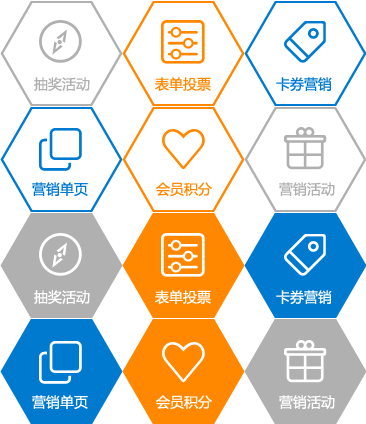
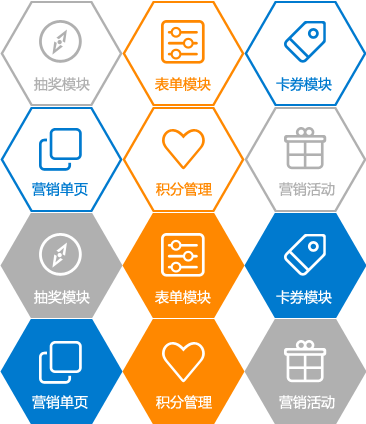
update danlunet

diff --git a/src/documents/index.html b/src/documents/index.html
@@ -12,21 +12,21 @@ scripts: ["/scripts/jq-plug.js","/scripts/index.js"]
         <ul>
         <li>
             <div class=""><img src="../images/cdn.png" /></div>
-            <h3>pc网站展示</h3>
+            <h3>pc端展示</h3>
             <img src="../images/boxline.png" />
-            <div class="dec">根据用户需求打造最专业的营销型网站，后台操作便捷、海量模板、高度自定义、支持二次升级、轻松创建属于您自己的网站！</div>
+            <div class="dec">根据各行业的实际运作模式，打造几千套PC端创意样式，后台操作便捷、高度自定义、支持二次升级、轻松创建属于属于企业自己的营销平台！</div>
         </li>
         <li>
             <div class=""><img src="../images/csj.png" /></div>
-            <h3>手机网站展示</h3>
+            <h3>手机端展示</h3>
             <img src="../images/boxline.png" />
-            <div class="dec">独立域名，拒绝捆绑，手机访问PC网站自动跳转；数据同步PC网站，统一后台管理；无缝对接微信，手机页面可配置，自主制作精美页面。</div>
+            <div class="dec">独立域名，手机访问PC端可设置自动跳转；数据同步PC端，统一后台管理；无缝对接微信/支付宝服务窗等开放接口；手机端页面可自定义配置。</div>
         </li>
         <li>
             <div class=""><img src="../images/cwx.png" /></div>
-            <h3>微官网展示</h3>
+            <h3>微信端展示</h3>
             <img src="../images/boxline.png" />
-            <div class="dec">开放平台接口捆绑手机网站、结合微信的自动回复功能：设计微信互动游戏。使用手机网站的推广页面，报名活动、签到等营销活动迅速聚拢人气。</div>
+            <div class="dec">开放平台接口捆绑手机端，结合微信的自动回复功能，设计微信互动营销。使用手机端的推广页面/表单/抽奖/签到等功能迅速聚拢人气。</div>
         </li>
         </ul>
     </div>
@@ -46,41 +46,50 @@ scripts: ["/scripts/jq-plug.js","/scripts/index.js"]
             <div class="tab-content solu-content">
                 <div class="tab-pane2">
                     <h4 style="padding: 0px 0;text-align: center;font-size: 32px;font-weight:normal;color:#444;display:none;">营销模块</h4>
-                    <p class="text" style="line-height:24px;font-size:16px;">担路创建的云官网、云商城，采用统一后台管理、数据同步，轻松实现企业品牌及产品信息发布、咨询管理、订单管理、售后服务管理、会员管理等功能；基于云计算架构的后台系统，集合pc端、手机端、微信端为一体，颠覆传统的企业宣传模式，为企业提供专业的互联网工具。
+                    <p class="text" style="line-height:24px;font-size:16px;">基于担路SAAS云架构，我们在商城中心和手机端管理中心开发了多种互联网互动营销活动工具，方便企业进行O2O营销，让企业与客户的关系更加紧密。
                     <br><br></p>
                 </div>
                 <div class="tab-pane">
-                    <h4>抽奖活动</h4>
-                    <p class="text">刮刮卡、大转盘、砸金蛋等互动小游戏设置简单，趣味互动 吸引用户参与 沉淀用户。
+                    <h4>抽奖模块</h4>
+                    <p class="text">抽奖类型：刮刮卡/大转盘/砸金蛋<br>
+抽奖步骤：预先设置奖项，客户手机号验证后可抽奖<br>
+适用场景：企业开业/促销/等活动
                     <br><br></p>
                 </div>
                 <div class="tab-pane" style="display:none;">
-                    <h4>表单投票</h4>
-                    <p class="text">预定：酒店预订、课程预定、旅游预订等需要提前预定的场景<br />
-                                    报名：活动报名、课程报名、组团报名等报名活动<br />
-                                    预付款：装修预付款、课程预付款等需要预付款的场景
+                    <h4>表单模块</h4>
+                    <p class="text">表单字段自定义配置，表单风格自定义设置<br>
+预定：酒店预订、课程预定、旅游预订等需要提前预定的场景<br>
+报名：活动报名、课程报名、组团报名等报名活动<br>
+调查/反馈：问卷调查，产品问题反馈，客户建议提交等
+
                     <br><br></p>
                 </div>
                 <div class="tab-pane" style="display:none;">
-                    <h4>卡券营销</h4>
-                    <p class="text">代金券：结合线下活动，可以代替现金使用的券，为您的客户提供最直接的福利<br />优惠券：自定义优惠券，优惠券发放，积分兑换优惠券。
+                    <h4>卡券模块</h4>
+                    <p class="text">代金券：结合线下活动，可以代替现金使用的券，为您的客户提供最直接的福利<br>
+优惠券：自定义优惠券，优惠券发放，积分兑换优惠券<br>
+会员卡：会员管理，会员充值
                     <br><br></p>
                 </div>
                 <div class="tab-pane" style="display:none;">
-                    <h4>营销活动</h4>
-                    <p class="text">直降/打折/满减/秒杀/团购/<br />
-                                    推广单页：专为营销活动设计的个性化推广单页<br />
-                                    整合营销活动，轻松创建专题页面
+                    <h4>商城产品营销模块</h4>
+                    <p class="text">类型：直降/打折/满减/秒杀/团购/<br />
+特点：价格/时间/折扣金额/针对产品等全部自定义<br />
+适用场景：商城促销，尾货处理，品牌促销等
                     <br><br></p>
                 </div>
                 <div class="tab-pane" style="display:none;">
-                    <h4>会员积分</h4>
-                    <p class="text">购物积分/评价积分/预约积分/发放积分<br />积分兑换优惠券/积分抵扣购物/设置积分规则
+                    <h4>积分管理</h4>
+                    <p class="text">积分获得策略可以自定义<br />
+积分可以自定义发放给任何用户<br />
+积分可以用来抵扣现金，也可以用来兑换优惠券
                     <br><br></p>
                 </div>
                 <div class="tab-pane" style="display:none;">
                     <h4>营销单页</h4>
-                    <p class="text">为客户的需求提供合理地解决方案,为商家挖掘更多的客户需求，商家挖掘更多的客户需求多的客户需求多的客户需求。
+                    <p class="text">商城推广单页：可以整合商城各类营销活动以及组合推荐，单页风格可以自定义配置。用于商城的定期推广<br />
+手机端推广单页：微页面/微场景/微杂志，页面自定义配置，并且可以作为其他手机页面的引导页。用于手机端的新品发布/促销活动/开业庆典等
                     <br><br></p>
                 </div>
             </div>
@@ -95,7 +104,7 @@ scripts: ["/scripts/jq-plug.js","/scripts/index.js"]
             <ul>
             <li>
                 <h3>商城订单</h3>
-                <div class="dec">订单统一管理，智能识别pc、手机、微信终端客户，订单筛选/订单多级状态/订单打印/订单筛选/订单导出</div>
+                <div class="dec">订单统一管理，智能识别pc、手机、微信终端客户，订单筛选/订单多级状态/订单打印/订单导出</div>
             </li>
             <li>
                 <h3>表单式订单</h3>
@@ -103,7 +112,7 @@ scripts: ["/scripts/jq-plug.js","/scripts/index.js"]
             </li>
             <li>
                 <h3>推广式组合订单</h3>
-                <div class="dec">完美实现移动推广活动流量向销量的转化，使用精美微场景、微页面、微杂志等聚集人气，结合在线下单实现看流量转化</div>
+                <div class="dec">完美实现移动推广活动流量向销量的转化，使用精美微场景、微页面、微杂志聚集人气，结合在线下单实现流量转化</div>
             </li>
             </ul>
         </div>
@@ -116,8 +125,8 @@ scripts: ["/scripts/jq-plug.js","/scripts/index.js"]
             <ul>
             <li>
             <img src="../images/hui1.png">
-                <h3>网站自带客户管理系统</h3>
-                <div class="dec">通过网站自带客户管理系统，企业就可以记录所有会员客户的资料，了解用户的兴趣爱好、消费特点、意向需求 等；提供客户分组、客户角色管理；</div>
+                <h3>客户注册系统</h3>
+                <div class="dec">手机注册和用户名注册两种方式，可自定义配置注册角色以及完善资料字段，用户信息可进行批量操作（导出用户信息/发放积分/发放优惠券/群发邮件等）</div>
             </li>
             <li>
             <img src="../images/hui2.png">
@@ -127,10 +136,43 @@ scripts: ["/scripts/jq-plug.js","/scripts/index.js"]
             <li>
             <img src="../images/hui3.png">
                 <h3>CRM</h3>
-                <div class="dec">担路CRM的销售自动化能帮您和您的团队提高销售业绩，使您的销售行为更加自动化，监督销售过程，更短时间达成更多交易</div>
+                <div class="dec">担路CRM能帮企业提高销售业绩，使企业的销售行为更加自动化；同时监督所有销售过程，帮助销售团队更短时间达成更多交易</div>
             </li>
             </ul>
         </div>
     </div>
 </div>
-<link rel="stylesheet" type="text/css" href="http://s2.d2scdn.com/static/mobile_theme/style1/font-awesome/css/font-awesome.css" media="all" />
+
+<div class="box5">
+    <div class="box">
+        <div class="hd">数据统计</div>
+<div class="analysis-detail clearfix">
+        <ul>
+            <li>
+                <h4><span>图标</span>订单与销量统计</h4>
+                <h5>统计已成交的订单和商品的销量，掌握实时的市场动态</h5>
+            </li>
+            <li>
+                <h4><span class="compare">图标</span>访问终端统计</h4>
+                <h5>准确的分析客户使用的浏览器和系统配置，为有效的推广做好准备</h5>
+            </li>
+            <li>
+                <h4><span class="explain">图标</span>访问来源统计</h4>
+                <h5>自动识别客户来源，准确统计pc用户、微信用户、手机用户</h5>
+            </li>
+            <li>
+                <h4><span class="notification">图标</span>用户访问行为统计</h4>
+                <h5>统计每个访问来源、浏览记录，从而分析用户的消费习惯和喜爱页面</h5>
+            </li>
+            <li>
+                <h4><span class="control">图标</span>访客地理位置分析统计</h4>
+                <h5>准确记录访客的地理位置，从而设置更有效的推广策略</h5>
+            </li>
+            <li>
+                <h4><span class="package">图标</span>访问页面分析统计</h4>
+                <h5>对每个页面进行分析，记录每个页面的访客数，分析热门访问页面</h5>
+            </li>
+        </ul>
+    </div>
+</div>
+</div>

diff --git a/src/files/styles/wj-css.css b/src/files/styles/wj-css.css
@@ -84,7 +84,7 @@
 .box1 {padding:40px 0 60px;}
 .box1 .bd{}
 .box1 .bd li{width: 400px;float: left;text-align: center;}
-.box1 .bd li h3 {font-size: 18px;line-height: 40px;font-weight: normal;color:#007acf;}
+.box1 .bd li h3 {font-size: 18px;line-height: 40px;font-weight: blod;color:#007acf;}
 .box1 .bd li .dec {padding:10px 30px;line-height: 24px;font-size: 14px;color: #666;}
 
 .box2{background: #fafafa;}
@@ -106,8 +106,8 @@
 .solution-info .active .dot5{background-position:-122px -318px;}
 .solution-info .active .dot6{background-position:0px -318px;}
 .solu-content{display:inline-block;width:650px;padding-left:30px;padding-top:50px;margin-left:-5px;vertical-align:top;}
-.solu-content h4{font-size:18px;height:auto;color:#32365d;line-height:38px;margin:0px 0px 10px 0px;}
-.solu-content .text{color:#666666;text-indent:inherit;}
+.solu-content h4{font-size:18px;height:auto;color:#444;line-height:38px;margin:0px 0px 10px 0px;}
+.solu-content .text{color:#666666;text-indent:inherit;font-size: 14px;}
 .solu-content .btn-lottery{border-radius:5px;-webkit-border-radius:5px;-moz-border-radius:5px;margin-left:0px;font-size:14px;height:36px;line-height:36px;}
 .solu-content .btn-lottery:hover{padding:1px 20px;}
 .tab-pane {padding:20px;border: 1px #ddd solid;border-radius: 10px;background:#fff; }
@@ -118,13 +118,26 @@
 .box3 .bd {text-align: center;padding-bottom: 60px;}
 .box3 .bd li {width: 250px;color: #fff;padding: 30px 50px;display: inline-block;border: 1px #fff solid;margin-left:20px;height: 120px;}
 .box3 .bd li h3 {font-size: 18px;line-height: 40px;}
-.box3 .bd li .dec {line-height: 24px;}
+.box3 .bd li .dec {line-height: 24px;font-size: 14px;}
 
-.box4 {padding:40px 0;}
+.box4 {padding:40px 0;background: #fafafa;}
 .box4 .bd {padding:0 0 50px 0;text-align: center;}
 .box4 .bd li {border-radius: 20px;border: 1px #ddd solid;width:250px;margin-left:20px;text-align: center;padding:50px;line-height: 24px;font-size: 14px;display: inline-block;}
 .box4 .bd li h3 {font-size: 18px;line-height: 40px;}
 
+.box5{padding:40px 0;background: #fff;}
+.box5 .bd {padding:0 0 50px 0;text-align: center;}
+.analysis-detail{width:1100px;margin:0 auto;clear:both;padding-bottom:50px}
+.analysis-detail ul{margin:0;padding:0;zoom:1;display:block;overflow:hidden;text-align: center;}
+.analysis-detail ul li{display:inline-block;list-style:none;width:290px;margin:12px 20px;border:1px solid #cccfdc;padding:20px 30px 20px 0;text-align: left;}
+.analysis-detail ul li span{float:left;width:30px;height:28px;display:block;text-indent:-9999px;background:url(../images/coin.jpg) -10px -313px no-repeat;margin:-2px 14px 0 0}
+.analysis-detail ul li span.compare{background-position:-53px -313px}
+.analysis-detail ul li span.explain{background-position:-91px -314px}
+.analysis-detail ul li span.notification{background-position:-131px -313px}
+.analysis-detail ul li span.control{background-position:-171px -313px}
+.analysis-detail ul li span.package{background-position:-216px -313px}
+.analysis-detail ul li h4{font-size:18px;padding:0 0 14px 34px}
+.analysis-detail ul li h5{font-size:14px;line-height:24px;padding-left:77px;color:#666;font-weight: normal;}
 
 /* 创意库 */
 .tipcolor { height:6px; background:#007acf;}
@@ -228,7 +241,7 @@
 
 .wj-focusbg {background:url(../images/wj-mbg.gif) repeat-x center -147px #fff;}
 .wj-focus { text-align:center;border-right:0;border-left:0;height:260px;/*background:url(../images/focus.png) no-repeat center bottom;*/ width:1200px; margin:0 auto; position:relative;}
-.f-txt { color:#fff; font-size:24px; padding:40px 0 0 20px; text-align:left;}
+.f-txt { color:#fff; font-size:20px; padding:40px 0 0 20px; text-align:left;}
 .f-txt .hd {  font-weight:noraml;margin-top:20px;font-size: 32px;}
 .f-txt .bd { margin-top:10px;}
 .f-phone { position:absolute; bottom:10px; right:0; font-size:18px; color:#fff;}
@@ -323,9 +336,9 @@
 /* footer
 --------------------------------------------------------------------------------------------------*/
 .wj-fotbg {margin-top:0;background:#fafafa}
-.wfot-help { height:262px; background:#fafafa;width:100%;}
+.wfot-help { background:#fafafa;width:100%;}
 .wfot-bot { background:#007acf; text-align:center;width:100%;}
-.fh-all {padding:60px 0 0 0px; width:1200px; margin:0 auto;}
+.fh-all {padding:20px 0 20px 0px; width:1200px; margin:0 auto;}
 .fh-all li { float:left; width:120px;padding:0 0 0 50px;}
 .fh-all li.fh-site { padding:0 0 0 20px;}
 .fh-all li.fh-cotact {width:300px}
@@ -348,3 +361,18 @@
 .a-wx:hover .w-weixin { display:block;}
 .wfot-bot { color:#fff; padding-top:30px;}
 .wfot-copy a { color:#fff; font-size:14px;}
+
+.fot-cop { width:1200px;margin: 0 auto; }
+.wfot-ad { width: 950px;margin: 0 auto;}
+.wfot-ad .feature{padding:28px 0;display:inline-block;text-align:left;}
+.wfot-ad .feature li{float:left;display:inline;width:237px;font-size:16px;line-height:50px}
+.wfot-ad .feature li a:hover{color:#e35449;text-decoration:none}
+.wfot-ad .feature li .ico{padding-left:57px;color:#333;font-weight:300;display:inline-block;background:url(../images/feature.png) 0 2px no-repeat}
+.wfot-ad .feature li.fe-1 .ico{background-position:0 2px}
+.wfot-ad .feature li.fe-1 a.ico:hover{background-position:0 -258px}
+.wfot-ad .feature li.fe-2 .ico{background-position:-240px 2px}
+.wfot-ad .feature li.fe-2 a.ico:hover{background-position:-240px -258px}
+.wfot-ad .feature li.fe-3 .ico{background-position:-479px 2px}
+.wfot-ad .feature li.fe-3 a.ico:hover{background-position:-479px -258px}
+.wfot-ad .feature li.fe-4 .ico{background-position:-720px 2px}
+.wfot-ad .feature li.fe-4 a.ico:hover{background-position:-720px -258px}

diff --git a/src/documents/cpc.html b/src/documents/cpc.html
@@ -11,14 +11,10 @@ scripts: ["/scripts/carouFredSel.js","/scripts/cpc.js"]
 <div class="banner" id="banner" >
     <a href="#" class="d1" style="background:url(../images/banner5.jpg) center no-repeat;"></a>
     <a href="#" class="d1" style="background:url(../images/banner6.jpg) center no-repeat;"></a>
-    <a href="#" class="d1" style="background:url(../images/banner7.jpg) center no-repeat;"></a>
-    <a href="#" class="d1" style="background:url(../images/banner3.jpg) center no-repeat;"></a>
     <!--
     <a href="#" class="d1" style="background:url(http://www.micronet.cn//../images/BannerWec2.jpg) center no-repeat;"></a>-->
     <div class="d2" id="banner_id">
         <ul>
-            <li></li>
-            <li></li>
             <li></li>
             <li></li>
         </ul>
@@ -706,69 +702,7 @@ scripts: ["/scripts/carouFredSel.js","/scripts/cpc.js"]
 <div class="foot-pg" style="display:none;">
     <div><a href="#top" class="foot-top-pg"></a><span>Copyright © 2011-2013 担路网(Demlution.com) 版权所有 沪ICP备12018506号-2 </span><a rel="sexylightbox" style="color:#fff; font-size:18px; margin-left:350px;" target="_blank" href="#TB_inline?height=430&amp;width=900&amp;inlineId=alerttxt">关于我们</a> <!--担路旗下： <a target="_blank" href="http://www.demlution.com">担路平台</a> <a target="_blank" href="http://www.danlu.net">担路产品</a>-->  </div>
 </div>
-<div id="alerttxt" style=" display:none;">
-<div class="alerttxt">
-<div class="page-content content">
-<img title="公司介绍" src="http://www.demlution.com/site_media/static/imgs/a_tit.jpg">
-<h4>公司创建背景</h4>
-<div class="cot-box">
-<p style="text-indent:2em">上海担路网络科技有限公司主要创始人为同济大学、武汉大学、辽宁工程技术大学等高校的毕业生。公司在成立期间，得到了同济科技园的鼎力支持。</p>
 
-<p>一方面，越来越多的中小企业成立，这些中小企业的核心产品（服务）往往是非主流市场的产品（服务），寻找有这些需求的客户成了它们的难题；另一方面，随着社会的发展和消费观念的变迁，无论是普通消费者，还是大型企业，他（它）们的需求都越来越个性化，寻找能够满足其需求的产品（服务）往往很费时。这种"需求"与"产品（服务）"之间的矛盾不仅使交易成本变得很高，而且还造成了许多社会资源的浪费。在这种背景下，担路网络科技有限公司应运而生。</p>
-
-<p>公司旗下平台起名为"担路"，是"demlution"（"demlution"为"demand"与"solution"的合成词）的音译。</p>
-</div>
-<h4>经营理念</h4>
-<div class="cot-box">
-<p>1.我们存在的价值： </p>
-
-<p> ◆ 为客户的需求提供合理地解决方案，<br>
- ◆ 为商家挖掘更多的客户需求，<br>
- ◆ 使社会资源更合理地布局，<br>
- ◆ 使商家与客户以更低的成本进行交易。
-</p>
-
-<p>2.经营核心：</p>
-
-<p> ◆ 真诚为客户和商家服务，<br>
- ◆ 确保平台上每一个个性化需求能得到优质的解决方案，<br>
- ◆ 打造一个新社会、新消费、新服务的平台。
-</p>
-</div>
-<h4>文化建设</h4>
-<div class="cot-box">
-<p>1.平等，以人为本；实现自我价值，为社会创造价值。</p>
-
-<p>2.同舟共济，济人，济事，济天下。</p>
-
-<p>3.对五个人的使命使命与责任 : </p>
-
-<p> ◆ 要使员工和员工的家人幸福 <br>
- ◆ 要使合作商家幸福 <br>
- ◆ 要使客户幸福 <br>
- ◆ 要使社会幸福 <br>
- ◆ 自然造就股东的幸福
-</p>
-</div>
-<h4>CDCS管理核心</h4>
-<div class="cot-box">
-<p>1.CDCS诠释： </p>
-
-<p>C-customer(客户) D-demand(需求) C-company(商家) S-solution(方案)</p>
-
-<p>2.公司今后管理的四大核心 </p>
-
-<p>客户——需求，商家——解决方案。</p>
-
-<p> ◆ 努力使客户发布的需求 与 能提供相应解决方案的商家更精准地对接，<br>
- ◆ 给客户提供一个方便快捷的发布需求的工具，<br>
- ◆ 给商家提供一个性能更加优良的社会化信息门户网站，<br>
- ◆ 为客户和商家努力提供一个良好的买卖交易、交流共享的社会化网络平台。
-</p>
-</div>
-</div>
-</div>
-</div>
 <style>
 #SLB-Wrapper h1 { font-size:24px; line-height:35px;  text-align:center;}
 #SLB-Wrapper p { padding:15px; font-size:14px; line-height:24px;}

diff --git a/src/files/styles/mall.css b/src/files/styles/mall.css
@@ -1507,7 +1507,7 @@ footer p a{margin:0 15px;display:inline-block;}
 .foot-top-pg { position:absolute; width:156px; height:45px; background:url(../images/bg9.gif);  left:50%; bottom:0; margin-left:-78px}
 .pg_backbg {background-color: #000;}
 .fixed-nav {border-top:4px solid #ddd;background: #fff;}
-.fixed-nav{position:fixed;left:50%;margin-left:520px;top:453px;border-bottom:1px solid #D4D4D4;border-right:1px solid #D4D4D4;border-left:1px solid #D4D4D4;line-height:33px;font-size:12px;width:90px;text-align:center;z-index:10000;}
+.fixed-nav{position:fixed;left:50%;margin-left:550px;top:453px;border-bottom:1px solid #D4D4D4;border-right:1px solid #D4D4D4;border-left:1px solid #D4D4D4;line-height:33px;font-size:12px;width:90px;text-align:center;z-index:10000;}
 .fixed-nav li{vertical-align:middle;height:33px;position:relative;border-top:1px solid #eee;margin-top:-1px}
 .fixed-nav li:first-of-type{border-top:0 none}
 .fixed-nav li i{display:none}

diff --git a/src/files/styles/style_cpc.css b/src/files/styles/style_cpc.css
@@ -314,7 +314,7 @@ a.sublogo:hover { text-decoration:none;}
 
 .pg_backbg {background-color: #000;}
 .fixed-nav {border-top:4px solid #ddd;background: #fff;}
-.fixed-nav{position:fixed;left:50%;margin-left:520px;top:453px;border-bottom:1px solid #D4D4D4;border-right:1px solid #D4D4D4;border-left:1px solid #D4D4D4;line-height:33px;font-size:12px;width:90px;text-align:center;z-index:10000;}
+.fixed-nav{position:fixed;left:50%;margin-left:550px;top:453px;border-bottom:1px solid #D4D4D4;border-right:1px solid #D4D4D4;border-left:1px solid #D4D4D4;line-height:33px;font-size:12px;width:90px;text-align:center;z-index:10000;}
 .fixed-nav li{vertical-align:middle;height:33px;position:relative;border-top:1px solid #eee;margin-top:-1px}
 .fixed-nav li:first-of-type{border-top:0 none}
 .fixed-nav li i{display:none}

diff --git a/src/documents/cmall.html b/src/documents/cmall.html
@@ -10,11 +10,9 @@ scripts: ["/scripts/mootools.js","/scripts/home_cases.js","/scripts/cmall.js"]
 <div class="banner" id="banner" >
     <a href="#" class="d1" style="background:url(../images/banner1.jpg) center no-repeat;"></a>
     <a href="#" class="d1" style="background:url(../images/banner2.jpg) center no-repeat;"></a>
-    <a href="#" class="d1" style="background:url(../images/banner8.jpg) center no-repeat;"></a>
     <a href="#" class="d1" style="background:url(../images/BannerWec3.jpg) center no-repeat;"></a>
     <div class="d2" id="banner_id">
         <ul>
-            <li></li>
             <li></li>
             <li></li>
             <li></li>

diff --git a/src/files/styles/dm-base.css b/src/files/styles/dm-base.css
@@ -99,7 +99,7 @@ a:hover{text-decoration: underline;color:#ff8c05}
 
 /* 基础布局组 */
 /* @group basic layout */
-.content,.tip-cot,.header,.nav_c,.fot-hep,.fot-cop {margin-left:auto;margin-right:auto;width:1000px;}
+.content,.tip-cot,.header,.nav_c,.fot-hep{margin-left:auto;margin-right:auto;width:1000px;}
 
 .col_main { width:740px; float:left;}
 .col_sub { width:250px; float:right;margin-left:10px;}
